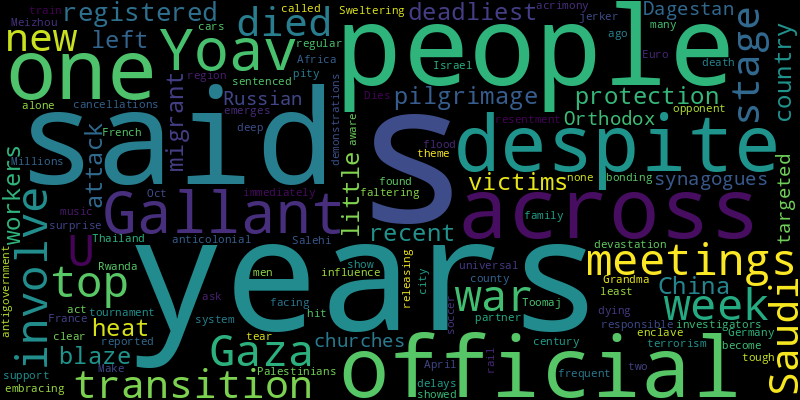
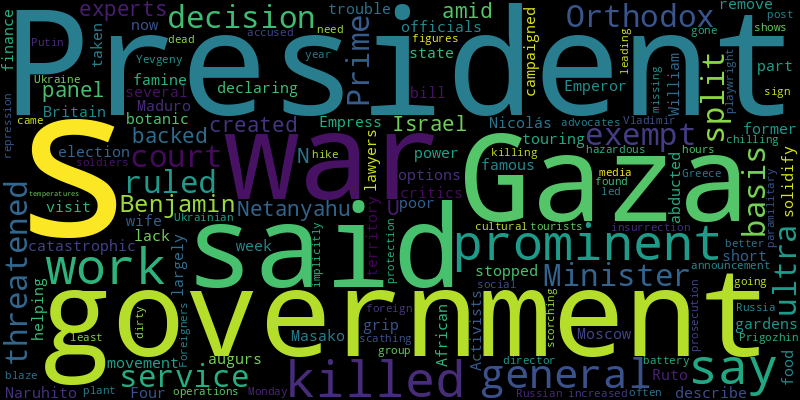
chore(bot): 😱 auto commit

diff --git a/README.md b/README.md
@@ -2,41 +2,41 @@
 Auto RSS New York Times and Generate Word Cloud
 
 ## New York Times Global News
-* Yoav Gallant said his meetings with top U.S. officials this week would involve the Gaza war’s “transition” to a new stage.
-* More than 1,300 people died, and a Saudi official said most of them were not registered for the pilgrimage. That left them with little protection from the heat.
-* The blaze was one of the country’s deadliest in recent years. Most of the victims were migrant workers from China.
-* The attack in Dagestan targeted synagogues and Orthodox churches. Russian investigators called it an act of terrorism, but it was not immediately clear who was responsible.
-* The city of Meizhou reported a “once-in-a-century” flood, with at least 38 people dying in one county alone.
-* France is facing deep anticolonial resentment across Africa, but has found a partner in Rwanda, which is embracing French influence despite years of acrimony.
-* Toomaj Salehi had been sentenced to death in April after releasing music in support of antigovernment demonstrations two years ago.
-* Sweltering train cars, frequent delays and regular cancellations: At the Euro 2024 men’s soccer tournament, Germany’s faltering rail system emerges as a tough opponent.
-* A tear-jerker from Thailand, “How to Make Millions Before Grandma Dies,” has become a surprise hit across the region. Its theme is universal: bonding with family.
-* Despite being aware of the devastation in the enclave, many in Israel ask why they should show pity when Palestinians there showed none on Oct. 7.
+* The court ruled there was no basis to exempt the ultra-Orthodox from service, a decision that threatened to split Prime Minister Benjamin Netanyahu’s government amid the war in Gaza.
+* A U.N.-backed panel of experts said Israel’s war in Gaza had created a catastrophic lack of food, but stopped short of declaring a famine in the territory.
+* Four former officials in the government of President Nicolás Maduro describe his options between now and an election that could remove him from power — or solidify his grip.
+* Emperor Naruhito and his wife, Empress Masako, are touring the famous botanic gardens this week as part of a state visit to Britain.
+* The movement augurs trouble for President William Ruto, who campaigned on helping the poor. Activists and lawyers said several prominent critics of the finance bill had been abducted.
+* Moscow has largely taken over the African operations of the paramilitary group, once led by Yevgeny Prigozhin, who was killed after leading an insurrection against Vladimir Putin.
+* The prosecution of a prominent playwright and a director in Russia over their work is a chilling sign of increased repression, cultural figures say.
+* The announcement by Ukraine’s president on Monday came hours after a scathing social media post implicitly accused the general of “killing more Ukrainian soldiers than any Russian general.”
+* Foreigners do dirty, hazardous work, and advocates say the blaze that killed 22 at a battery plant shows that they need better protection.
+* At least 10 foreign tourists have gone missing or been found dead this year in Greece after going for a hike, often in scorching temperatures.
 
 ![Global](./global.png)
 ## New York Times United States News
 * Parents, desperate for help, are turning to private schools with a half-dozen or so students. And they are getting a financial boost from taxpayers.
-* The shooting in which a gunman killed four and injured 10 at a grocery store in a town of 3,400 appeared to be a “completely random, senseless act,” the police said on Sunday.
-* The mayor of Providence wants to install noise cameras and fine violators, but some worry that poor and immigrant neighborhoods will be disproportionately targeted.
-* The decades-long friendship of two men who never especially changed.
+* Officials in Iowa, South Dakota and Minnesota reported widespread damage and continuing danger. A bridge collapsed on Sunday and a dam was at risk on Monday.
+* Sheng Thao was already facing a recall election as residents remain frustrated over crime and homelessness. She said on Monday that she had committed no crimes.
+* The swift backlash to the fight between pro-Palestinian and pro-Israel demonstrators over the weekend has reignited debates about the boundaries of acceptable protest.
 * The Constitution and U.S. law have clear answers for only some of the questions raised by the criminal conviction of a major presidential candidate.
 * The former president could face probation or prison time. Either option would be without precedent.
 * Donald J. Trump has promised to appeal, but he may face limits on his ability to travel and to vote as he campaigns for the White House.
-* Officials in Iowa, South Dakota and Minnesota reported widespread damage over the weekend. In some places, the worst was still to come.
-* Across the country this week, Democrats are focusing on abortion issues and emphasizing Donald Trump’s role in nominating the justices who helped overturn Roe v. Wade.
-* The forecast is welcome news for many East Coasters, who faced stifling conditions over the weekend. But the Southeast and Southern Plains are expected to continue to scorch this week.
+* Eight states are certain or likely to field election initiatives that would overhaul redistricting or give voters a greater voice in choosing candidates.
+* The debate will be hosted by CNN from its Atlanta studios starting at 9 p.m. Eastern time on Thursday.
+* The margin between the congressman and his Trump-backed challenger is just slightly above the threshold for a state-funded recount. His opponent has already declared victory, and both are election deniers.
 
 ![US](./usnews.png)
 ## New York Times Asia News
+* Foreigners do dirty, hazardous work, and advocates say the blaze that killed 22 at a battery plant shows that they need better protection.
+* Emperor Naruhito and his wife, Empress Masako, are touring the famous botanic gardens this week as part of a state visit to Britain.
+* The Chang’e-6 mission’s sample, which might hold clues about the origins of the moon and Earth, is the latest achievement of China’s lunar exploration program.
+* Chinese companies’ stock market listings once flooded Wall Street. These days, China’s initial public offerings are in a drought.
+* Also, a shift in Israel’s focus and extreme heat in Mecca.
+* As Houthi rebels intensify strikes on vessels headed for the Suez Canal, global shipping prices are soaring, raising fears of product shortages and delays.
+* With the sea creatures making up a growing share of illegal animal seizures around the world, U.S. officials are working to overcome struggles to safely house them.
 * The city of Meizhou reported a “once-in-a-century” flood, with at least 38 people dying in one county alone.
 * Ms. de Lima, a former senator, was detained for six years on drug charges after fiercely criticizing then-President Rodrigo Duterte’s bloody war on drugs.
 * The blaze was one of the country’s deadliest in recent years. Most of the victims were migrant workers from China.
-* SoftBank and Naver helped bridge geopolitical relations with a joint venture to own the operator of the messaging app Line, but now the partnership is fraying.
-* Also, shootings in Dagestan, a Russian republic.
-* Kwon Pyong recounted for the first time the series of gambles that got him out of China by jet ski, and almost a year later, out of South Korea.
-* For nearly a decade, I worked in China as a Times correspondent and bureau chief. But it wasn’t until researching for a book that I uncovered the full story of my father’s role in Communist rule.
-* A tear-jerker from Thailand, “How to Make Millions Before Grandma Dies,” has become a surprise hit across the region. Its theme is universal: bonding with family.
-* The economic minister of Germany, whose auto sector is enmeshed with China, met with Chinese officials as the E.U. moves to impose tariffs on electric cars.
-* Consumption of tainted bootleg alcohol has caused several instances of mass deaths in recent years as drinkers seek out illicit liquor to save money or evade the law.
 
 ![Asian](./asian.png)
